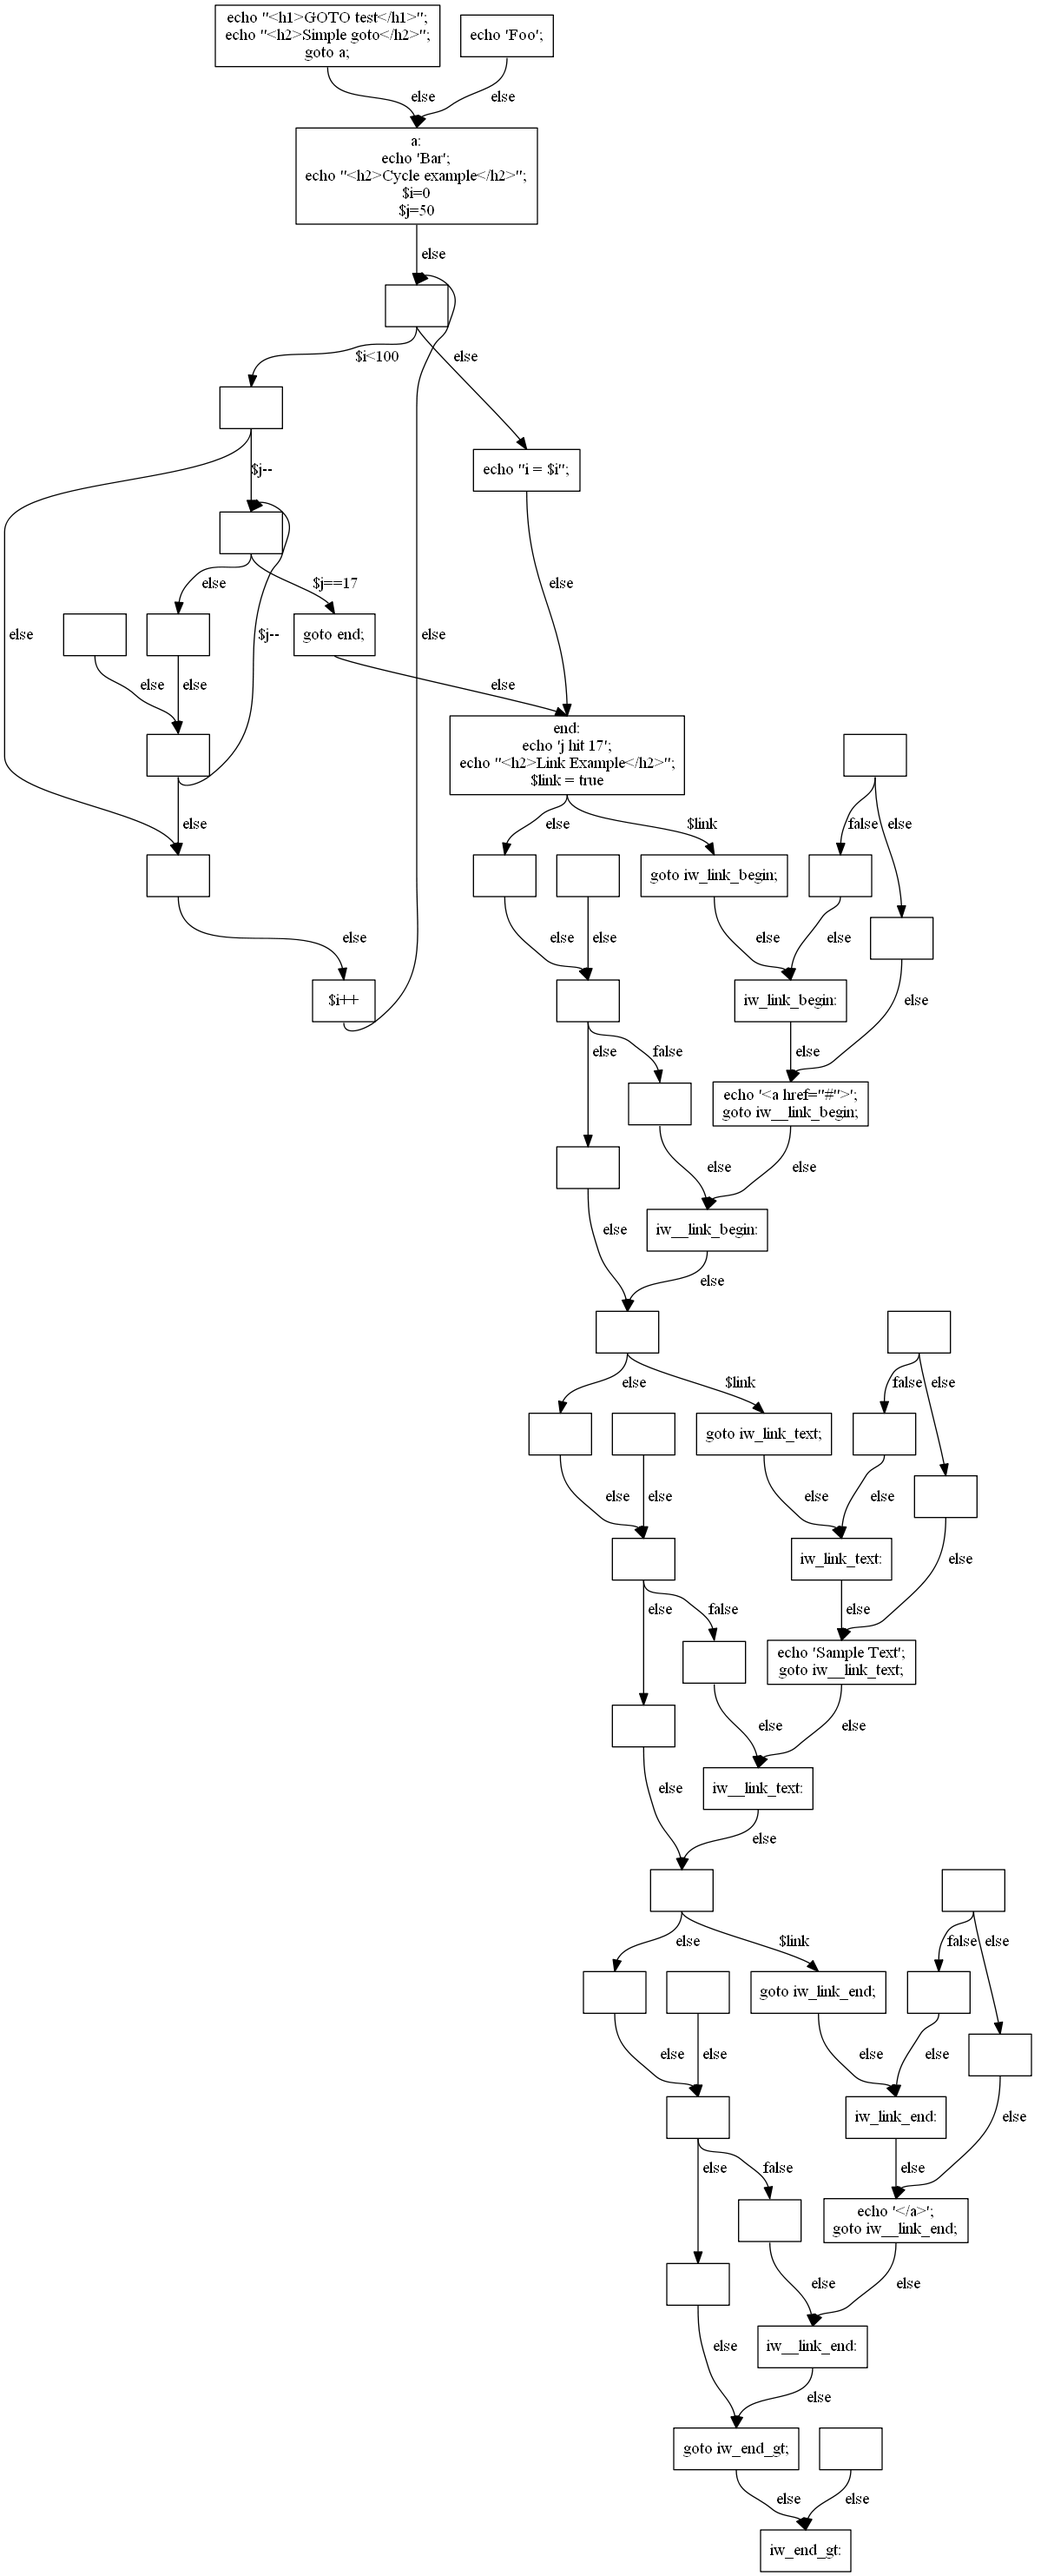
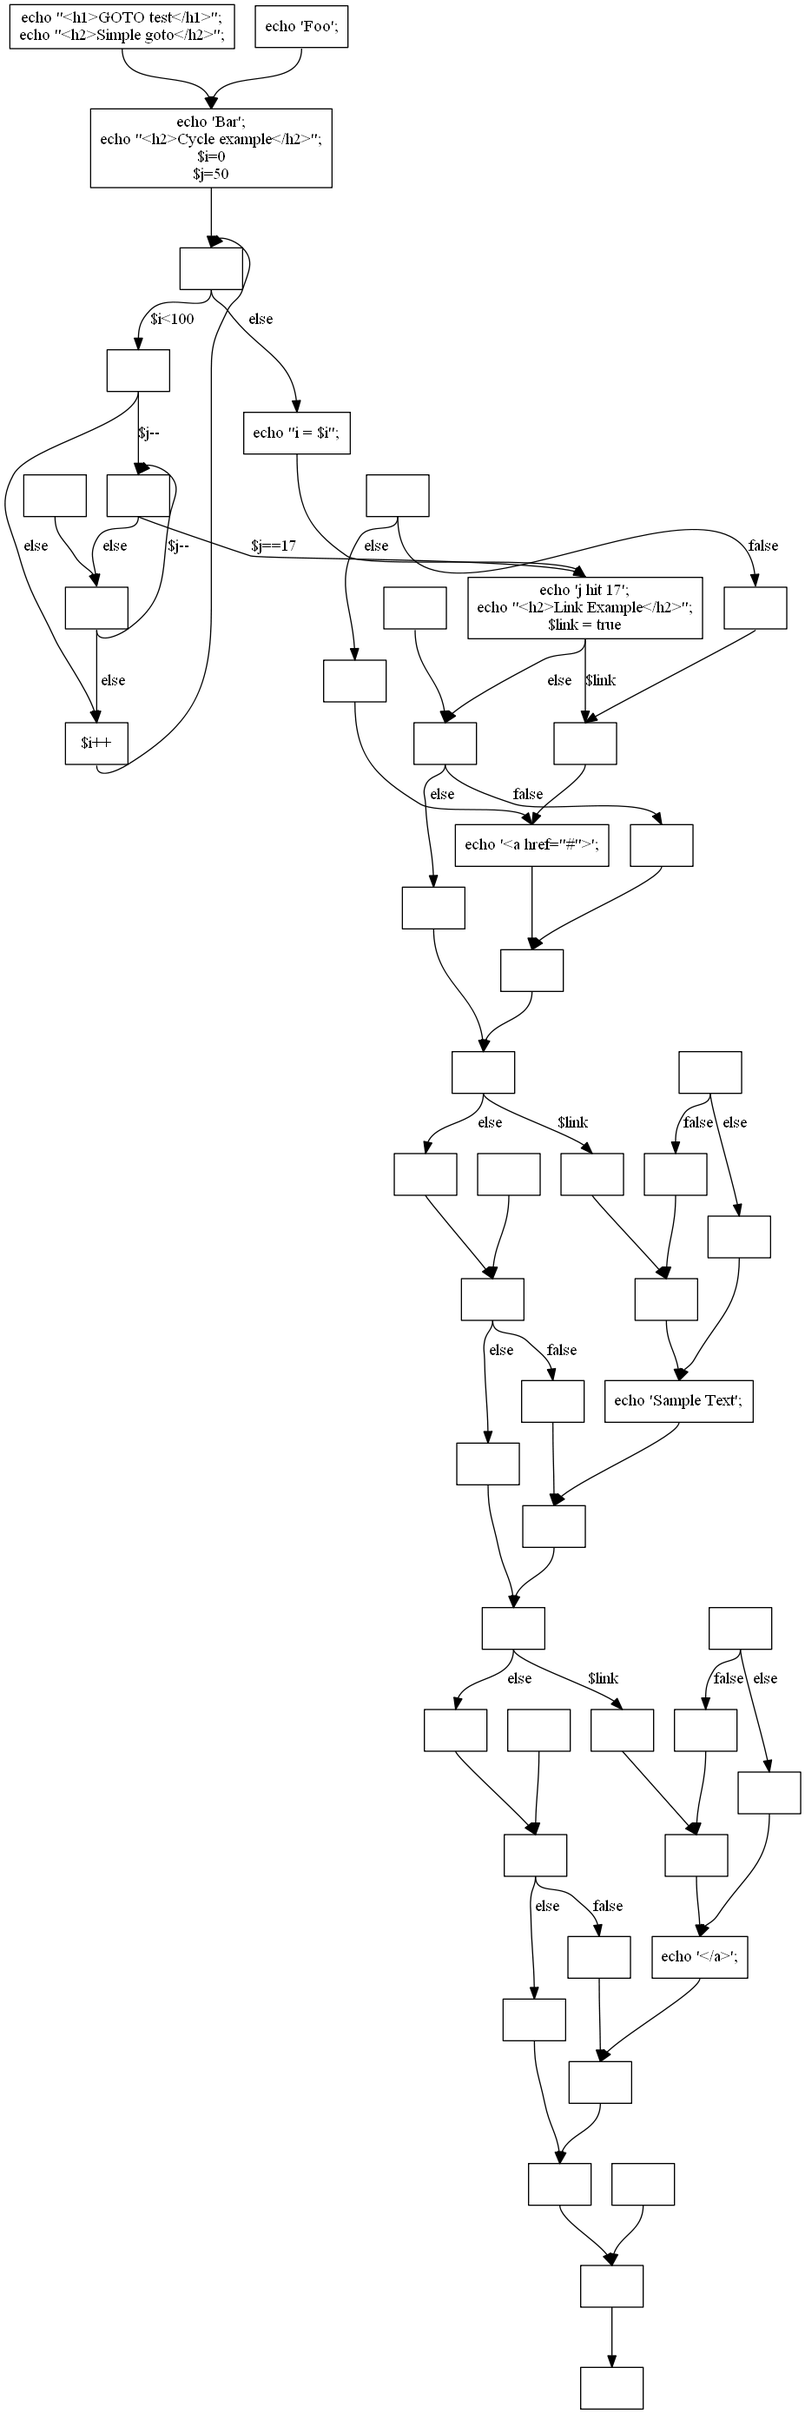
Control flow graph - missing and duplicated label detection Parser tester - add CFG exception viewer
git-svn-id: svn+ssh://aiya.ms.mff.cuni.cz/var/svn/weverca/trunk@209 67bba403-d36b-46c0-a350-761a85a4c57d

diff --git a/VSProjects/Realisation/Weverca.ControlFlowGraph/CFGVisitor.cs b/VSProjects/Realisation/Weverca.ControlFlowGraph/CFGVisitor.cs
@@ -88,20 +88,29 @@ namespace Weverca.ControlFlowGraph
         readonly LinkedList<BasicBlock> GotoQueue = new LinkedList<BasicBlock>();
         BasicBlock labelBlock = null;
 
+        public bool HasAssociatedLabel { get { return labelBlock != null;  } }
+
         /// <summary>
         /// Saves target block of this label and process all blocks in GOTO queue.
         /// </summary>
         /// <param name="labelBlock">The label block.</param>
         public void AsociateLabel(BasicBlock labelBlock)
         {
-            this.labelBlock = labelBlock;
-
-            foreach (BasicBlock gotoBlock in GotoQueue)
+            if (HasAssociatedLabel)
             {
-                _asociateGoto(gotoBlock);
+                throw new ControlFlowException(ControlFlowExceptionCause.DUPLICATED_LABEL);
             }
+            else
+            {
+                this.labelBlock = labelBlock;
 
-            GotoQueue.Clear();
+                foreach (BasicBlock gotoBlock in GotoQueue)
+                {
+                    _asociateGoto(gotoBlock);
+                }
+
+                GotoQueue.Clear();
+            }
         }
 
         /// <summary>
@@ -220,6 +229,17 @@ namespace Weverca.ControlFlowGraph
             graph.start = currentBasicBlock;
             functionSinkStack.Push(new BasicBlock());
             throwBlocks.Push(new List<BasicBlock>());
+        }
+
+        public void CheckLabels()
+        {
+            foreach (var labelData in labelDictionary)
+            {
+                if (!labelData.Value.HasAssociatedLabel)
+                {
+                    throw new ControlFlowException(ControlFlowExceptionCause.MISSING_LABEL);
+                }
+            }
         }
 
         /// <summary>

diff --git a/VSProjects/Realisation/Weverca.ControlFlowGraph/ControlFlowGraph.cs b/VSProjects/Realisation/Weverca.ControlFlowGraph/ControlFlowGraph.cs
@@ -72,7 +72,7 @@ namespace Weverca.ControlFlowGraph
             this.visitor = new CFGVisitor(this);
             globalCode.VisitMe(visitor);
 
-            Simplify();
+            PostProcess(visitor);
         }
 
         /// <summary>
@@ -85,7 +85,7 @@ namespace Weverca.ControlFlowGraph
             this.globalCode = globalCode;
             this.visitor = new CFGVisitor(this);
             start = visitor.MakeFunctionCFG(function,function.Body);
-            Simplify();
+            PostProcess(visitor);
         }
 
         /// <summary>
@@ -99,7 +99,7 @@ namespace Weverca.ControlFlowGraph
             
             this.visitor = new CFGVisitor(this);
             start = visitor.MakeFunctionCFG(function, function.Body);
-            Simplify();
+            PostProcess(visitor);
         }
 
         /// <summary>
@@ -111,7 +111,7 @@ namespace Weverca.ControlFlowGraph
 
             this.visitor = new CFGVisitor(this);
             start = visitor.MakeFunctionCFG(function, function.Body);
-            Simplify();
+            PostProcess(visitor);
         }
 
         /// <summary>
@@ -122,16 +122,14 @@ namespace Weverca.ControlFlowGraph
         {
             this.visitor = new CFGVisitor(this);
             start = visitor.MakeFunctionCFG(function, function.Body);
-            Simplify();
+            PostProcess(visitor);
         }
 
         #endregion construction
 
-        /// <summary>
-        /// Simplifies the controlflow graph. It merges blocks which has only one outgoing edge.
-        /// </summary>
-        public void Simplify()
+        private void PostProcess(CFGVisitor visitor)
         {
+            visitor.CheckLabels();
             start.SimplifyGraph();
         }
 

diff --git a/VSProjects/Realisation/Weverca.ControlFlowGraph/ControlFlowException.cs b/VSProjects/Realisation/Weverca.ControlFlowGraph/ControlFlowException.cs
@@ -8,17 +8,22 @@ namespace Weverca.ControlFlowGraph
     /// <summary>
     /// Exception throw by controflowgraph visitor, when there is an error in controlflow of program.
     /// </summary>
-    class ControlFlowException : Exception
+    public class ControlFlowException : Exception
     {
         public ControlFlowExceptionCause Cause { private set; get; }
-        public ControlFlowException(ControlFlowExceptionCause cause) { 
-            this.Cause=cause;
+        public ControlFlowException(ControlFlowExceptionCause cause) 
+            : base("Control flow creation error: " + cause.ToString())
+        {
+            this.Cause = cause;
         }
     }
     /// <summary>
     /// Cause of ControlFlowException.
     /// </summary>
-    enum ControlFlowExceptionCause {
-        BREAK_NOT_IN_CYCLE, CONTINUE_NOT_IN_CYCLE
+    public enum ControlFlowExceptionCause
+    {
+        BREAK_NOT_IN_CYCLE, CONTINUE_NOT_IN_CYCLE,
+        DUPLICATED_LABEL,
+        MISSING_LABEL
     }
 }

diff --git a/VSProjects/Realisation/Weverca.ControlFlowGraph/BasicBlock.cs b/VSProjects/Realisation/Weverca.ControlFlowGraph/BasicBlock.cs
@@ -146,8 +146,11 @@ namespace Weverca.ControlFlowGraph
 
                     if (accBlock.DefaultBranch != null)
                     {
-                        queue.AddLast(accBlock.DefaultBranch.To);
-                        processed.Add(accBlock.DefaultBranch.To);
+                        if (!processed.Contains(accBlock.DefaultBranch.To))
+                        {
+                            queue.AddLast(accBlock.DefaultBranch.To);
+                            processed.Add(accBlock.DefaultBranch.To);
+                        }
                     }
                 }
             }

diff --git a/VSProjects/Marcel/Weverca.Parser.Tester/Program.cs b/VSProjects/Marcel/Weverca.Parser.Tester/Program.cs
@@ -67,7 +67,15 @@ namespace Weverca.Parser.Tester
 
             if (parser.Ast != null)
             {
-                return new Weverca.ControlFlowGraph.ControlFlowGraph(parser.Ast);
+                try
+                {
+                    return new Weverca.ControlFlowGraph.ControlFlowGraph(parser.Ast);
+                }
+                catch (Weverca.ControlFlowGraph.ControlFlowException e)
+                {
+                    Console.WriteLine(e.Message);
+                }
+                return null;
             }
             else
             {

diff --git a/PHP_sources/CFG_test_sources/GOTO/duplicated_label.php b/PHP_sources/CFG_test_sources/GOTO/duplicated_label.php
@@ -1,0 +1,13 @@
+<?
+echo "<h1>BAD GOTO test</h1>";
+
+echo "before";
+a:
+echo "middle";
+a:
+echo "after";
+
+goto a;
+
+
+?>

diff --git a/PHP_sources/CFG_test_sources/GOTO/goto_undefined.php b/PHP_sources/CFG_test_sources/GOTO/goto_undefined.php
@@ -1,0 +1,6 @@
+<?
+echo "<h1>BAD GOTO test</h1>";
+
+goto undefined;
+
+?>
